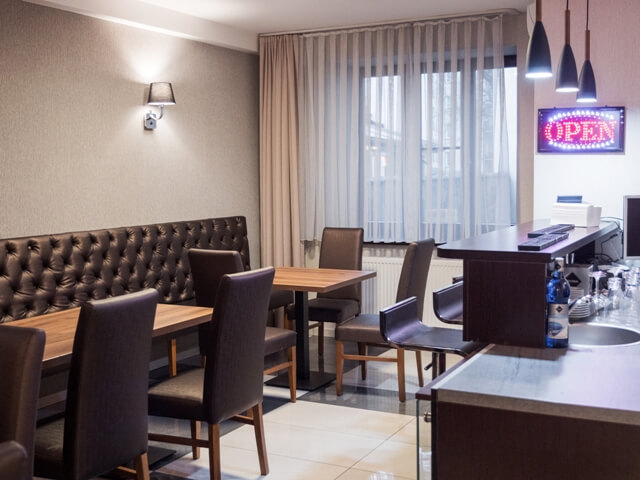
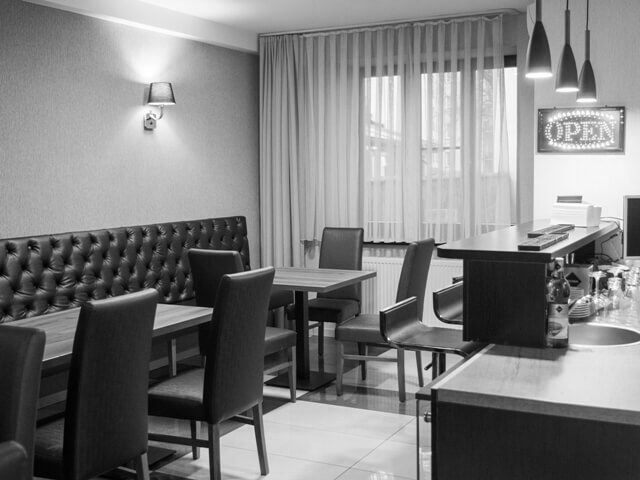
commit

diff --git a/src/App.css b/src/App.css
@@ -200,7 +200,7 @@ body {
 .hotelInNumbers {
   height: 100%;
   width: 100%;
-  background-image: url(./images/recepcja&bar/BAR\ 002.jpg);
+  background-image: url(./images/recepcja&bar/BAR\ 003.jpg);
   background-size: cover;
   background-position: center;
   background-attachment: fixed;
